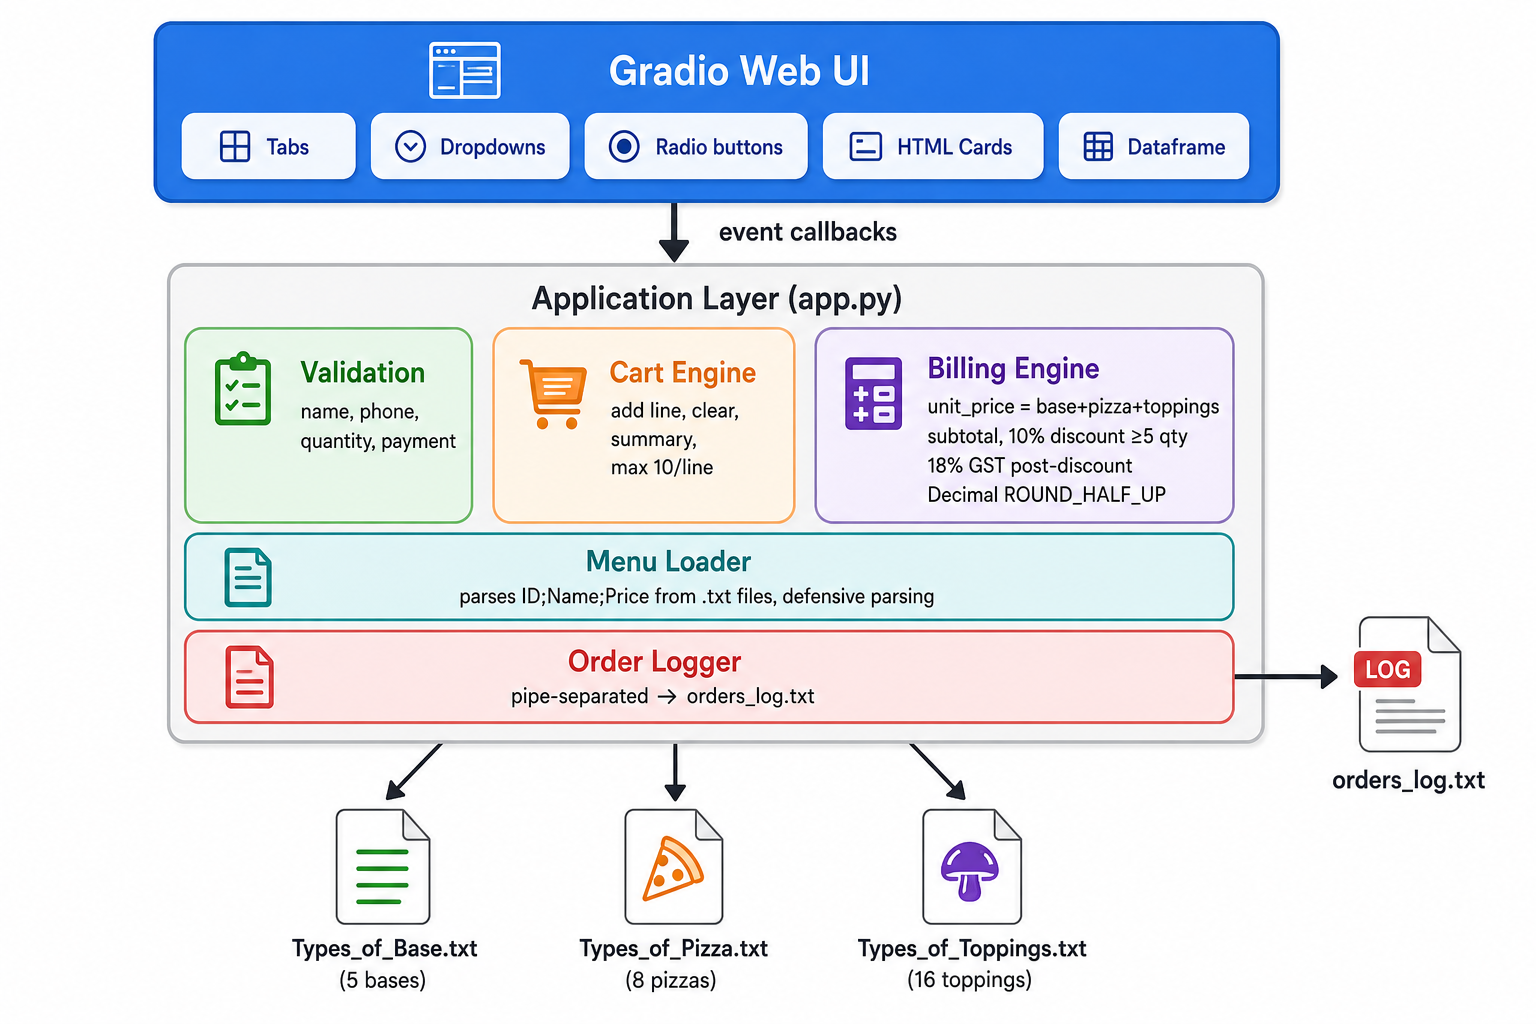
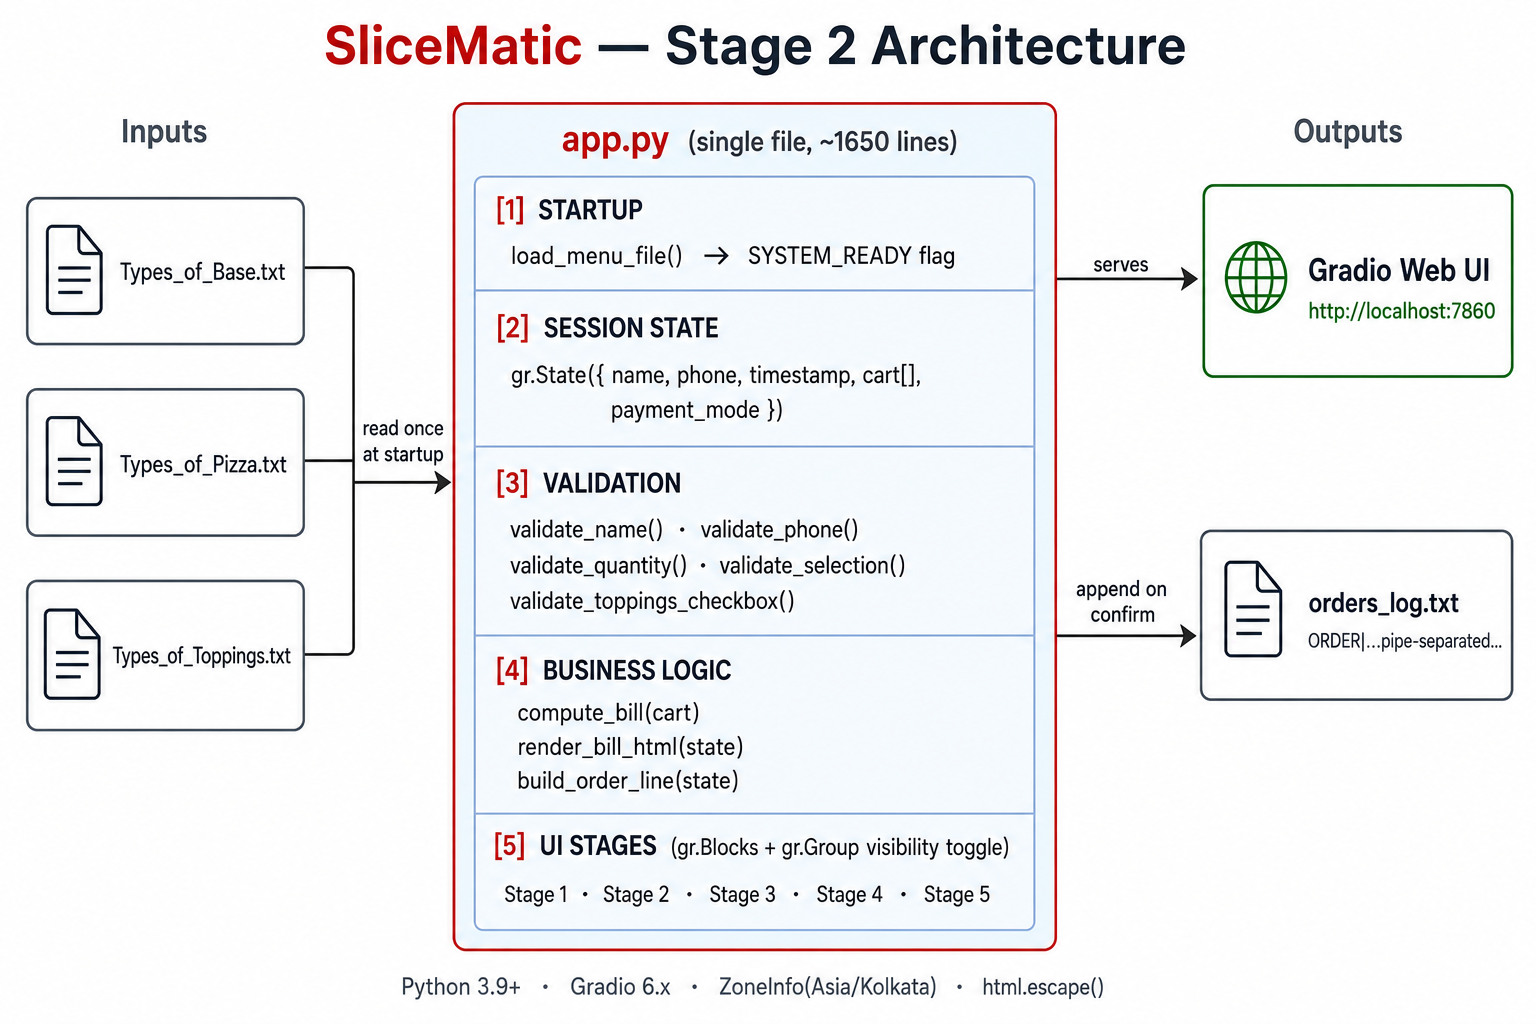
stage 2 root readme update

Changed region(s): [[0.0, 0.0, 1.0, 0.9688], [0.875, 0.75, 0.9688, 0.7812], [0.9688, 0.3438, 1.0, 0.375]]

diff --git a/README.md b/README.md
@@ -1,4 +1,4 @@
-# SliceMatic — Pizza Ordering System
+# SliceMatic — Pizza Ordering System
 
 > FDE Academy Group 9 | Team Project | Single-outlet pizza delivery for SliceMatic, New Ashok Nagar, Delhi
 
@@ -6,12 +6,12 @@
 
 ## Project Overview
 
-SliceMatic is a cart-based pizza ordering application built for a single-outlet delivery business. The project is delivered in stages — this README covers **Stage 1 (PRD)** and **Stage 2 (Gradio MVP)**.
+SliceMatic is a cart-based pizza ordering application built for a single-outlet delivery business. The project is delivered in stages — this README covers **Stage 1 (PRD)** and **Stage 2 (Gradio MVP 2)**.
 
 | Stage | Deliverable | Status |
 |-------|-------------|--------|
 | 1 — PRD + Business Economics | PDF document | Done |
-| 2 — Gradio MVP | Python app + menu files + order log | Done |
+| 2 — Gradio MVP 2 | Python app + menu files + order log + tests | Done |
 
 ---
 
@@ -27,12 +27,12 @@ SliceMatic is a cart-based pizza ordering application built for a single-outlet 
 
 | Decision | Rationale |
 |----------|-----------|
-| `Decimal` with `ROUND_HALF_UP` | Avoid floating-point money errors; rounding only at display/log |
+| `float` with no mid-calc rounding | Avoid floating-point money errors; rounding only at display/log |
 | Named constants (`GST_RATE`, `DISCOUNT_RATE`, etc.) | No magic numbers; easy to audit |
 | Menu loaded from `.txt` at runtime | Grader swaps files before testing — defensive parsing required |
-| Cart-based (multi-line) vs single-pizza | Supports realistic orders; discount triggers on total qty across cart |
+| Cart-based multi-item ordering | Supports realistic orders; discount triggers on total qty across cart |
 | GST calculated AFTER discount | `gst = (subtotal - discount) * 0.18` — matches PRD spec |
-| Validation rejects without exception | All 8 edge cases return user-friendly error, never crash |
+| Validation rejects without exception | All 11 edge cases return user-friendly error, never crash |
 
 ---
 
@@ -41,25 +41,27 @@ SliceMatic is a cart-based pizza ordering application built for a single-outlet 
 ```
 Slicematic/
 ├── README.md                          ← you are here
-├── Requirements/
+├── Project_Requirements/
 │   ├── PizzaFlow_Assignment_Brief_FDE.pdf
 │   ├── SliceMatic_Business_Economics.pdf
 │   └── Types_of_*.txt                 (reference menus)
 ├── documents/
 │   ├── SliceMatic_PRD_Business_Economics.pdf   (Stage 1 deliverable)
 │   └── Our Team.xlsx
-├── gradio-MVP/                        (Stage 2 deliverable)
+├── GRADIO-MVP-2/                      (Stage 2 deliverable)
 │   ├── app.py                         (main application ~1650 lines)
 │   ├── Types_of_Base.txt              (5 items)
 │   ├── Types_of_Pizza.txt             (8 items)
 │   ├── Types_of_Toppings.txt          (16 items)
-│   ├── requirements.txt               (gradio>=4.44)
+│   ├── requirements.txt               (gradio>=6.0,<7)
+│   ├── orders_log.txt                 (created/appended at runtime)
+│   ├── test_core.py                   (file loading, validation, bill math, log format)
+│   ├── test_edge_cases.py             (~72 edge cases with exact error-message checks)
+│   ├── SPRINT_PLAN.md                 (6-sprint build plan + iteration checklists)
 │   ├── assets/
-│   │   ├── pizza-hero.jpg
-│   │   └── menu/                      (generated pizza images)
-│   └── scripts/
-│       ├── generate_menu_assets.py
-│       └── download_pizza_photos.py
+│   │   └── menu/                      (pizza images served by Gradio)
+│   └── changelog/
+│       └── CHANGELOG.md               (v1.0.0 — 2026-06-27)
 └── db/                                (Stage 3 prep — schema drafted)
     ├── master schema & data_entry.sql
     ├── transactions.sql
@@ -72,7 +74,7 @@ Slicematic/
 ## Running the MVP
 
 ```bash
-cd gradio-MVP
+cd GRADIO-MVP-2
 pip install -r requirements.txt
 python app.py
 ```
@@ -87,7 +89,7 @@ The app launches on `http://localhost:7860` by default.
 |------|-------|
 | GST rate | 18% (applied after discount) |
 | Bulk discount | 10% when total qty ≥ 5 |
-| Max quantity per line | 10 |
+| Max quantity per order | 10 |
 | Customer name | Alphabets + spaces, 2–40 chars |
 | Phone | Exactly 10 digits, starts with 6/7/8/9 |
 | Payment modes | Cash, Card, UPI |
@@ -101,7 +103,7 @@ Delivered a Product Requirements Document covering:
 - 21 functional requirements for the ordering flow
 - Business economics: AOV Rs.850, contribution margin 69.3%, break-even 12 orders/day
 - Complete pricing model with GST and discount rules
-- Edge-case specifications (8 mandatory rejection scenarios)
+- Edge-case specifications (11 mandatory rejection scenarios)
 
 ---
 